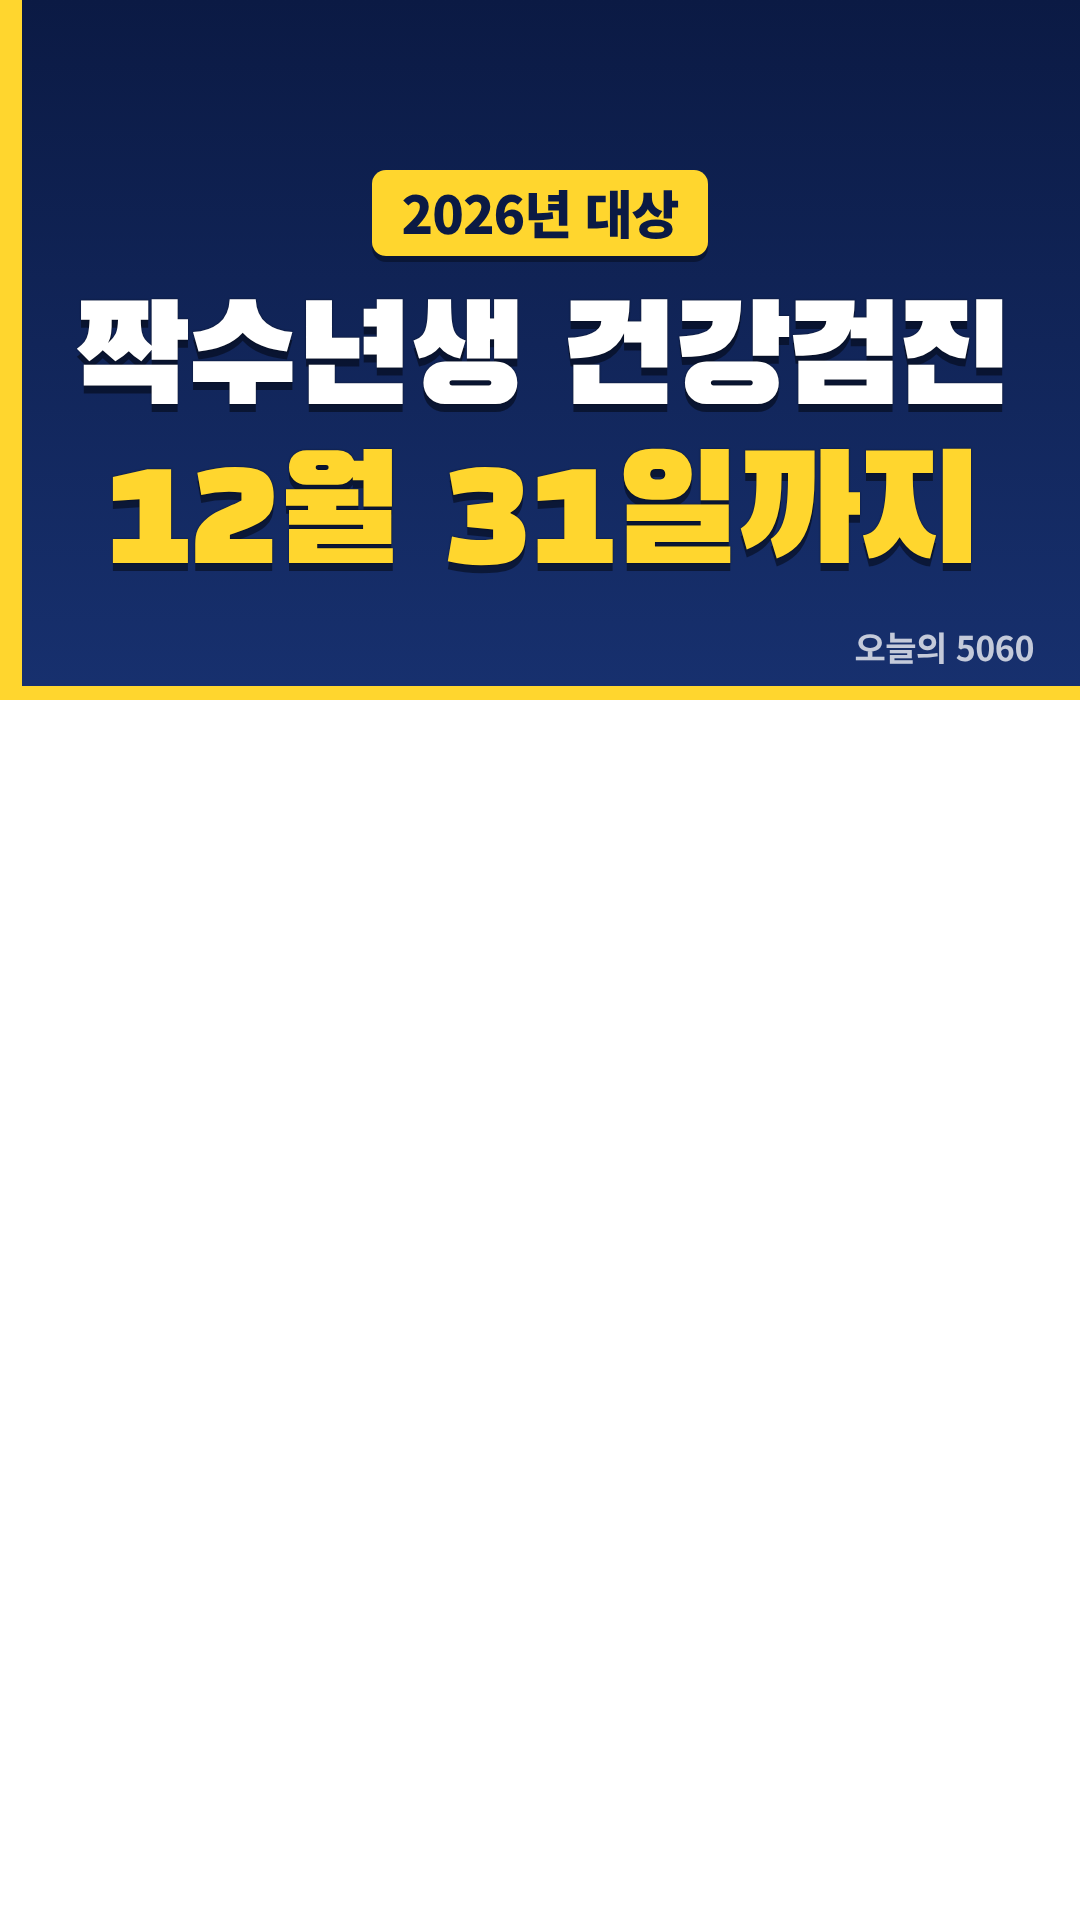
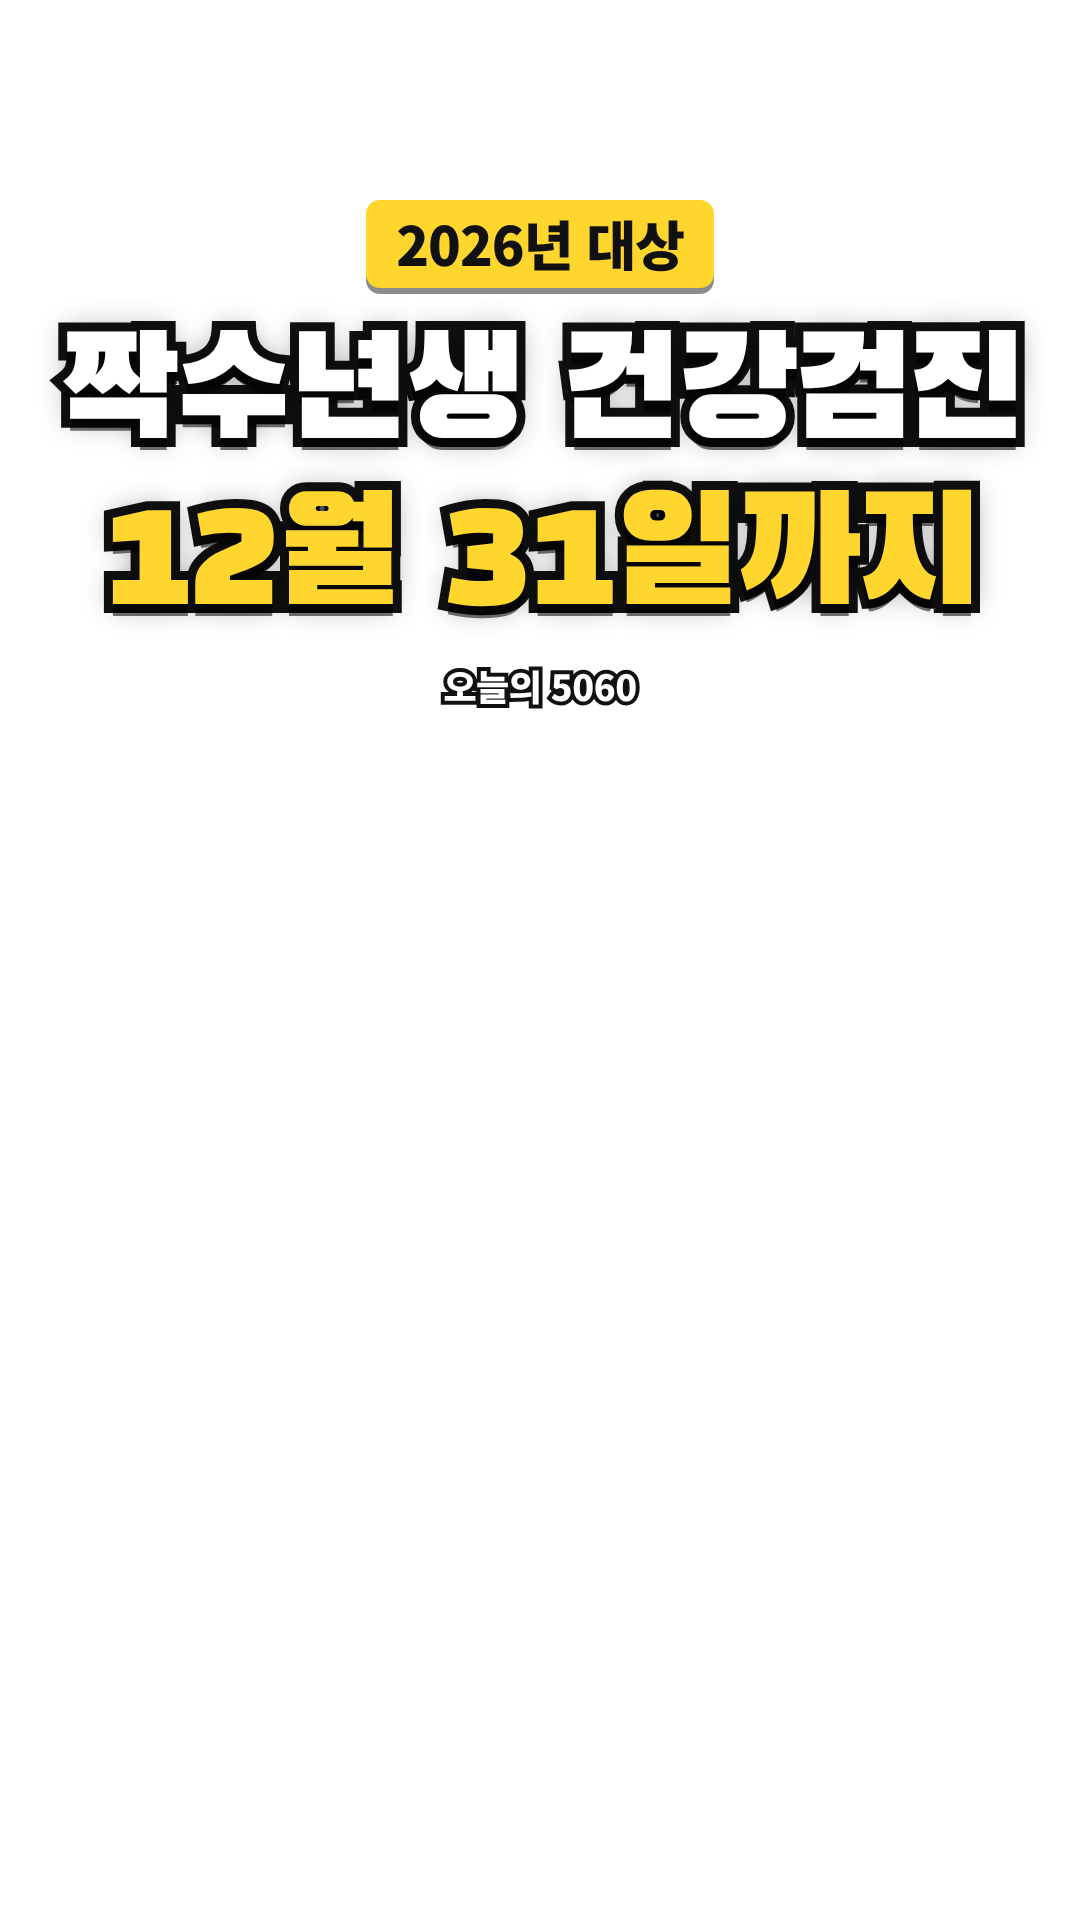
Title card: switch to no-background two-line style
Drop the colored band; text sits directly on the image with a thick
black outline and shadow. Categories now differ by accent color only.

Claude-Session: https://claude.ai/code/session_01Xek6DnfYp9yHnSt88ANoG6

diff --git a/shorts-studio/brand/title-style.html b/shorts-studio/brand/title-style.html
@@ -1,13 +1,12 @@
 <!doctype html><html lang="ko"><head><meta charset="utf-8"><meta name="viewport" content="width=device-width,initial-scale=1"><title>강조 제목 스타일</title><style>@import url('https://fonts.googleapis.com/css2?family=Black+Han+Sans&family=Noto+Sans+KR:wght@700;900&display=swap');
 .tc{position:relative;width:1080px;height:1920px;overflow:hidden;font-family:"Black Han Sans","Noto Sans KR",sans-serif}
 .tc .bg{position:absolute;inset:0}
-.tc .band{position:absolute;left:0;right:0;top:0;height:700px;padding:170px 60px 0;box-sizing:border-box;
-  background:linear-gradient(180deg,var(--band1),var(--band2));border-bottom:14px solid var(--accent);text-align:center}
-.tc .band:before{content:"";position:absolute;left:0;top:0;bottom:0;width:22px;background:var(--accent)}
-.tc .chip{display:inline-block;background:var(--accent);color:var(--chipText);font:900 52px/1 "Noto Sans KR",sans-serif;
-  padding:16px 30px 18px;border-radius:14px;letter-spacing:-1px;box-shadow:0 6px 0 rgba(0,0,0,.35);margin-bottom:34px}
-.tc .l{display:block;white-space:nowrap;line-height:1.08;letter-spacing:-3px;
-  text-shadow:0 8px 0 rgba(0,0,0,.45),0 0 2px rgba(0,0,0,.6)}
+.tc .band{position:absolute;left:0;right:0;top:0;padding:200px 50px 0;box-sizing:border-box;text-align:center}
+.tc .chip{display:inline-block;background:var(--accent);color:#111;font:900 54px/1 "Noto Sans KR",sans-serif;
+  padding:16px 30px 18px;border-radius:14px;letter-spacing:-1px;box-shadow:0 6px 0 rgba(0,0,0,.45);margin-bottom:30px}
+.tc .l{display:block;white-space:nowrap;line-height:1.12;letter-spacing:-3px;
+  -webkit-text-stroke:18px #111;paint-order:stroke fill;text-shadow:0 12px 0 rgba(0,0,0,.55),0 0 30px rgba(0,0,0,.45)}
 .tc .l1{color:#fff}
 .tc .l2{color:var(--accent)}
-.tc .sig{position:absolute;right:46px;bottom:22px;font:700 34px/1 "Noto Sans KR",sans-serif;color:rgba(255,255,255,.75);letter-spacing:-.5px}body{margin:0;background:#0f1115;color:#e9ecf1;font:17px/1.6 "Noto Sans KR",sans-serif}main{max-width:1100px;margin:0 auto;padding:16px}h1{font-size:24px;margin:8px 0}p{color:#9aa3b2}.grid{display:grid;grid-template-columns:repeat(auto-fill,minmax(250px,1fr));gap:20px}figure{margin:0}.scale{width:252px;height:448px;overflow:hidden;border-radius:14px}.scale .tc{transform:scale(.2333);transform-origin:0 0}figcaption{margin-top:8px;color:#9aa3b2;font-size:15px}ul{color:#c9d0db}</style></head><body><main><h1>강조 제목 스타일 — 꽉찬 두 줄</h1><p>위쪽 밴드에 태그 1개, 흰 줄 1개, 강조색 줄 1개. 주제 분야마다 밴드 색이 달라 채널 영상이 한눈에 구분됩니다. 아래 배경은 Vrew AI 이미지가 들어갈 자리입니다.</p><div class="grid"><figure><div class="scale"><div class="tc" style="--band1:#0B1A44;--band2:#17306E;--accent:#FFD62E;--chipText:#0B1A44"><div class="bg" style="background:linear-gradient(180deg,#cfe3f3 0%,#9cc3e0 55%,#e9d9c4 100%)"></div><div class="band"><span class="chip">2026년 대상</span><span class="l l1">짝수년생 건강검진</span><span class="l l2">12월 31일까지</span><span class="sig">오늘의 5060</span></div></div></div><figcaption>시범 회차 (검증 완료 문구)</figcaption></figure><figure><div class="scale"><div class="tc" style="--band1:#06352A;--band2:#0E5541;--accent:#FFC93C;--chipText:#06352A"><div class="bg" style="background:linear-gradient(180deg,#f3e6c4 0%,#d9b46a 60%,#7b5a2a 100%)"></div><div class="band"><span class="chip">디자인 예시</span><span class="l l1">은퇴 후 건보료</span><span class="l l2">이것부터 확인</span><span class="sig">오늘의 5060</span></div></div></div><figcaption>돈 · 초록+금색</figcaption></figure><figure><div class="scale"><div class="tc" style="--band1:#4A0B12;--band2:#7A1420;--accent:#FFE14D;--chipText:#4A0B12"><div class="bg" style="background:linear-gradient(180deg,#e9e4dc 0%,#bfb2a2 60%,#5e5246 100%)"></div><div class="band"><span class="chip">디자인 예시</span><span class="l l1">이런 문자 오면</span><span class="l l2">절대 누르지 마세요</span><span class="sig">오늘의 5060</span></div></div></div><figcaption>생활·사기예방 · 버건디+노랑</figcaption></figure><figure><div class="scale"><div class="tc" style="--band1:#2B1048;--band2:#4A1F7A;--accent:#FFD62E;--chipText:#2B1048"><div class="bg" style="background:linear-gradient(180deg,#ffb35c 0%,#e2603a 50%,#5a2a4a 100%)"></div><div class="band"><span class="chip">디자인 예시</span><span class="l l1">가을 걷기 좋은 길</span><span class="l l2">수도권 3곳</span><span class="sig">오늘의 5060</span></div></div></div><figcaption>여가 · 보라+노랑</figcaption></figure></div><h1 style="margin-top:28px">규칙</h1><ul><li>1줄: 누구 얘기인지 (흰색) · 2줄: 핵심 숫자나 행동 (강조색)</li><li>한 줄 9자 안팎 — 길면 글자가 자동으로 작아지지만 96px 아래로는 안 줄어듭니다</li><li>태그는 6자 이내, 시기·대상 (예: 2026년 대상, 11월부터)</li><li>제목에 쓰는 사실은 팩트체크 통과 문구만</li></ul></main><script>document.fonts.ready.then(function(){document.querySelectorAll(".tc .l").forEach(function(el){var s=150;el.style.fontSize=s+"px";while(el.scrollWidth>960&&s>96){s-=4;el.style.fontSize=s+"px";}});});</script></body></html>
+.tc .sig{display:inline-block;margin-top:22px;font:900 36px/1 "Noto Sans KR",sans-serif;color:#fff;letter-spacing:-.5px;
+  -webkit-text-stroke:8px #111;paint-order:stroke fill}body{margin:0;background:#0f1115;color:#e9ecf1;font:17px/1.6 "Noto Sans KR",sans-serif}main{max-width:1100px;margin:0 auto;padding:16px}h1{font-size:24px;margin:8px 0}p{color:#9aa3b2}.grid{display:grid;grid-template-columns:repeat(auto-fill,minmax(250px,1fr));gap:20px}figure{margin:0}.scale{width:252px;height:448px;overflow:hidden;border-radius:14px}.scale .tc{transform:scale(.2333);transform-origin:0 0}figcaption{margin-top:8px;color:#9aa3b2;font-size:15px}ul{color:#c9d0db}</style></head><body><main><h1>강조 제목 스타일 — 배경 없는 두 줄</h1><p>배경 띠 없이 태그 1개, 흰 줄 1개, 강조색 줄 1개를 굵은 검은 테두리로 이미지 위에 바로 얹습니다. 분야는 강조색으로 구분합니다. 뒤 배경은 Vrew AI 이미지가 들어갈 자리입니다.</p><div class="grid"><figure><div class="scale"><div class="tc" style="--accent:#FFD62E"><div class="bg" style="background:linear-gradient(180deg,#cfe3f3 0%,#9cc3e0 55%,#e9d9c4 100%)"></div><div class="band"><span class="chip">2026년 대상</span><span class="l l1">짝수년생 건강검진</span><span class="l l2">12월 31일까지</span><span class="sig">오늘의 5060</span></div></div></div><figcaption>건강 · 노랑 강조 — 시범 회차 (검증 완료 문구)</figcaption></figure><figure><div class="scale"><div class="tc" style="--accent:#7CF08A"><div class="bg" style="background:linear-gradient(180deg,#f3e6c4 0%,#d9b46a 60%,#7b5a2a 100%)"></div><div class="band"><span class="chip">디자인 예시</span><span class="l l1">은퇴 후 건보료</span><span class="l l2">이것부터 확인</span><span class="sig">오늘의 5060</span></div></div></div><figcaption>돈 · 연두 강조</figcaption></figure><figure><div class="scale"><div class="tc" style="--accent:#FF8A3D"><div class="bg" style="background:linear-gradient(180deg,#e9e4dc 0%,#bfb2a2 60%,#5e5246 100%)"></div><div class="band"><span class="chip">디자인 예시</span><span class="l l1">이런 문자 오면</span><span class="l l2">절대 누르지 마세요</span><span class="sig">오늘의 5060</span></div></div></div><figcaption>생활·사기예방 · 주황 강조</figcaption></figure><figure><div class="scale"><div class="tc" style="--accent:#7FD8FF"><div class="bg" style="background:linear-gradient(180deg,#ffb35c 0%,#e2603a 50%,#5a2a4a 100%)"></div><div class="band"><span class="chip">디자인 예시</span><span class="l l1">가을 걷기 좋은 길</span><span class="l l2">수도권 3곳</span><span class="sig">오늘의 5060</span></div></div></div><figcaption>여가 · 하늘 강조</figcaption></figure></div><h1 style="margin-top:28px">규칙</h1><ul><li>1줄: 누구 얘기인지 (흰색) · 2줄: 핵심 숫자나 행동 (강조색)</li><li>한 줄 9자 안팎 — 길면 글자가 자동으로 작아지지만 96px 아래로는 안 줄어듭니다</li><li>태그는 6자 이내, 시기·대상 (예: 2026년 대상, 11월부터)</li><li>제목에 쓰는 사실은 팩트체크 통과 문구만</li></ul></main><script>document.fonts.ready.then(function(){document.querySelectorAll(".tc .l").forEach(function(el){var s=150;el.style.fontSize=s+"px";while(el.scrollWidth>980&&s>96){s-=4;el.style.fontSize=s+"px";}});});</script></body></html>

diff --git a/shorts-studio/tools/make_title_card.js b/shorts-studio/tools/make_title_card.js
@@ -1,5 +1,5 @@
 #!/usr/bin/env node
-// 채널 강조 제목 카드 렌더러 ("꽉찬 두 줄" 스타일)
+// 채널 강조 제목 카드 렌더러 ("배경 없는 두 줄" 스타일)
 //
 //   node shorts-studio/tools/make_title_card.js <회차폴더>
 //     → vrew.md의 vrew-scenes 1번 장면(큰글자 2줄, 태그, 테마)으로
@@ -14,11 +14,12 @@ var path = require('path');
 
 var CHANNEL = '오늘의 5060'; // 채널 이름이 정해지면 여기만 바꾸세요
 
+// 배경 띠 없이 글자만 얹는 스타일: 분야는 강조색(태그·2줄)으로만 구분
 var THEMES = {
-  건강: { band1: '#0B1A44', band2: '#17306E', accent: '#FFD62E', chipText: '#0B1A44' },
-  돈: { band1: '#06352A', band2: '#0E5541', accent: '#FFC93C', chipText: '#06352A' },
-  생활: { band1: '#4A0B12', band2: '#7A1420', accent: '#FFE14D', chipText: '#4A0B12' },
-  여가: { band1: '#2B1048', band2: '#4A1F7A', accent: '#FFD62E', chipText: '#2B1048' },
+  건강: { accent: '#FFD62E' },
+  돈: { accent: '#7CF08A' },
+  생활: { accent: '#FF8A3D' },
+  여가: { accent: '#7FD8FF' },
 };
 
 // 배경 사진 자리 표시 (실제 영상에서는 Vrew AI 이미지가 들어감)
@@ -39,26 +40,25 @@ var CSS = [
   "@import url('https://fonts.googleapis.com/css2?family=Black+Han+Sans&family=Noto+Sans+KR:wght@700;900&display=swap');",
   '.tc{position:relative;width:1080px;height:1920px;overflow:hidden;font-family:"Black Han Sans","Noto Sans KR",sans-serif}',
   '.tc .bg{position:absolute;inset:0}',
-  '.tc .band{position:absolute;left:0;right:0;top:0;height:700px;padding:170px 60px 0;box-sizing:border-box;',
-  '  background:linear-gradient(180deg,var(--band1),var(--band2));border-bottom:14px solid var(--accent);text-align:center}',
-  '.tc .band:before{content:"";position:absolute;left:0;top:0;bottom:0;width:22px;background:var(--accent)}',
-  '.tc .chip{display:inline-block;background:var(--accent);color:var(--chipText);font:900 52px/1 "Noto Sans KR",sans-serif;',
-  '  padding:16px 30px 18px;border-radius:14px;letter-spacing:-1px;box-shadow:0 6px 0 rgba(0,0,0,.35);margin-bottom:34px}',
-  '.tc .l{display:block;white-space:nowrap;line-height:1.08;letter-spacing:-3px;',
-  '  text-shadow:0 8px 0 rgba(0,0,0,.45),0 0 2px rgba(0,0,0,.6)}',
+  '.tc .band{position:absolute;left:0;right:0;top:0;padding:200px 50px 0;box-sizing:border-box;text-align:center}',
+  '.tc .chip{display:inline-block;background:var(--accent);color:#111;font:900 54px/1 "Noto Sans KR",sans-serif;',
+  '  padding:16px 30px 18px;border-radius:14px;letter-spacing:-1px;box-shadow:0 6px 0 rgba(0,0,0,.45);margin-bottom:30px}',
+  '.tc .l{display:block;white-space:nowrap;line-height:1.12;letter-spacing:-3px;',
+  '  -webkit-text-stroke:18px #111;paint-order:stroke fill;text-shadow:0 12px 0 rgba(0,0,0,.55),0 0 30px rgba(0,0,0,.45)}',
   '.tc .l1{color:#fff}',
   '.tc .l2{color:var(--accent)}',
-  '.tc .sig{position:absolute;right:46px;bottom:22px;font:700 34px/1 "Noto Sans KR",sans-serif;color:rgba(255,255,255,.75);letter-spacing:-.5px}',
+  '.tc .sig{display:inline-block;margin-top:22px;font:900 36px/1 "Noto Sans KR",sans-serif;color:#fff;letter-spacing:-.5px;',
+  '  -webkit-text-stroke:8px #111;paint-order:stroke fill}',
 ].join('\n');
 
-// 한 줄이 밴드 폭(960px)에 맞도록 글자 크기를 맞춘다 (최대 150px, 최소 96px)
+// 한 줄이 화면 폭(980px)에 맞도록 글자 크기를 맞춘다 (최대 150px, 최소 96px)
 var FIT_JS =
   'document.querySelectorAll(".tc .l").forEach(function(el){var s=150;el.style.fontSize=s+"px";' +
-  'while(el.scrollWidth>960&&s>96){s-=4;el.style.fontSize=s+"px";}});';
+  'while(el.scrollWidth>980&&s>96){s-=4;el.style.fontSize=s+"px";}});';
 
 function cardHtml(opt) {
   var t = THEMES[opt.theme] || THEMES['건강'];
-  var vars = '--band1:' + t.band1 + ';--band2:' + t.band2 + ';--accent:' + t.accent + ';--chipText:' + t.chipText;
+  var vars = '--accent:' + t.accent;
   var bg = opt.preview ? '<div class="bg" style="background:' + (PREVIEW_BG[opt.theme] || PREVIEW_BG['건강']) + '"></div>' : '';
   return (
     '<div class="tc" style="' + vars + '">' + bg +
@@ -100,10 +100,10 @@ async function render(opt, file, preview) {
 }
 
 var SAMPLES = [
-  { theme: '건강', tag: '2026년 대상', line1: '짝수년생 건강검진', line2: '12월 31일까지', note: '시범 회차 (검증 완료 문구)' },
-  { theme: '돈', tag: '디자인 예시', line1: '은퇴 후 건보료', line2: '이것부터 확인', note: '돈 · 초록+금색' },
-  { theme: '생활', tag: '디자인 예시', line1: '이런 문자 오면', line2: '절대 누르지 마세요', note: '생활·사기예방 · 버건디+노랑' },
-  { theme: '여가', tag: '디자인 예시', line1: '가을 걷기 좋은 길', line2: '수도권 3곳', note: '여가 · 보라+노랑' },
+  { theme: '건강', tag: '2026년 대상', line1: '짝수년생 건강검진', line2: '12월 31일까지', note: '건강 · 노랑 강조 — 시범 회차 (검증 완료 문구)' },
+  { theme: '돈', tag: '디자인 예시', line1: '은퇴 후 건보료', line2: '이것부터 확인', note: '돈 · 연두 강조' },
+  { theme: '생활', tag: '디자인 예시', line1: '이런 문자 오면', line2: '절대 누르지 마세요', note: '생활·사기예방 · 주황 강조' },
+  { theme: '여가', tag: '디자인 예시', line1: '가을 걷기 좋은 길', line2: '수도권 3곳', note: '여가 · 하늘 강조' },
 ];
 
 function showcase(out) {
@@ -117,8 +117,8 @@ function showcase(out) {
     'h1{font-size:24px;margin:8px 0}p{color:#9aa3b2}.grid{display:grid;grid-template-columns:repeat(auto-fill,minmax(250px,1fr));gap:20px}' +
     'figure{margin:0}.scale{width:252px;height:448px;overflow:hidden;border-radius:14px}.scale .tc{transform:scale(.2333);transform-origin:0 0}' +
     'figcaption{margin-top:8px;color:#9aa3b2;font-size:15px}ul{color:#c9d0db}</style></head><body><main>' +
-    '<h1>강조 제목 스타일 — 꽉찬 두 줄</h1>' +
-    '<p>위쪽 밴드에 태그 1개, 흰 줄 1개, 강조색 줄 1개. 주제 분야마다 밴드 색이 달라 채널 영상이 한눈에 구분됩니다. 아래 배경은 Vrew AI 이미지가 들어갈 자리입니다.</p>' +
+    '<h1>강조 제목 스타일 — 배경 없는 두 줄</h1>' +
+    '<p>배경 띠 없이 태그 1개, 흰 줄 1개, 강조색 줄 1개를 굵은 검은 테두리로 이미지 위에 바로 얹습니다. 분야는 강조색으로 구분합니다. 뒤 배경은 Vrew AI 이미지가 들어갈 자리입니다.</p>' +
     '<div class="grid">' + cards + '</div>' +
     '<h1 style="margin-top:28px">규칙</h1><ul>' +
     '<li>1줄: 누구 얘기인지 (흰색) · 2줄: 핵심 숫자나 행동 (강조색)</li>' +

diff --git a/shorts-studio/brand/title-style.md b/shorts-studio/brand/title-style.md
@@ -1,29 +1,31 @@
-# 채널 강조 제목 스타일 — "꽉찬 두 줄"
+# 채널 강조 제목 스타일 — "배경 없는 두 줄"
 
 견본: [title-style.html](title-style.html) · 렌더러: `shorts-studio/tools/make_title_card.js`
 
-## 구성 (1080×1920, 위쪽 700px 밴드)
+배경 띠 없이 글자만 이미지 위에 얹는 스타일입니다. 어떤 사진 위에서도 읽히도록 굵은 검은 테두리와 그림자로 강조합니다.
+
+## 구성 (1080×1920, 화면 위쪽 200px부터)
 | 요소 | 규칙 |
 |---|---|
-| 밴드 | 분야색 세로 그라데이션 + 아래 14px 강조색 줄 + 왼쪽 22px 강조색 세로 띠 (채널 고유 표시) |
-| 태그 | 강조색 바탕 + 밴드색 글자, 6자 이내, 시기·대상 (예: `2026년 대상`, `11월부터`) |
-| 1줄 | 흰색, Black Han Sans, 누구 얘기인지 (예: `짝수년생 건강검진`) |
-| 2줄 | 강조색, 같은 글꼴, 핵심 숫자나 행동 (예: `12월 31일까지`) |
-| 크기 | 150px에서 시작해 밴드 폭(960px)에 맞게 자동 축소, 최소 96px → 한 줄 9자 안팎 권장 |
-| 서명 | 밴드 오른쪽 아래 채널명 (`make_title_card.js`의 `CHANNEL`) |
+| 태그 | 강조색 바탕 + 검은 글자, 6자 이내, 시기·대상 (예: `2026년 대상`, `11월부터`) |
+| 1줄 | 흰색, Black Han Sans, 18px 검은 테두리 + 아래 그림자. 누구 얘기인지 (예: `짝수년생 건강검진`) |
+| 2줄 | 강조색, 같은 글꼴·테두리. 핵심 숫자나 행동 (예: `12월 31일까지`) |
+| 크기 | 150px에서 시작해 화면 폭(980px)에 맞게 자동 축소, 최소 96px → 한 줄 9자 안팎 권장 |
+| 서명 | 2줄 아래 작은 흰 글자 채널명 (`make_title_card.js`의 `CHANNEL`) |
 
-## 분야별 색
-| 테마 | 밴드 | 강조색 |
-|---|---|---|
-| 건강 | 남색 `#0B1A44 → #17306E` | 노랑 `#FFD62E` |
-| 돈 | 짙은 초록 `#06352A → #0E5541` | 금색 `#FFC93C` |
-| 생활 (사기예방 등) | 버건디 `#4A0B12 → #7A1420` | 밝은 노랑 `#FFE14D` |
-| 여가 | 보라 `#2B1048 → #4A1F7A` | 노랑 `#FFD62E` |
+## 분야별 강조색 (태그·2줄)
+| 테마 | 강조색 |
+|---|---|
+| 건강 | 노랑 `#FFD62E` |
+| 돈 | 연두 `#7CF08A` |
+| 생활 (사기예방 등) | 주황 `#FF8A3D` |
+| 여가 | 하늘 `#7FD8FF` |
 
 ## 쓰는 법
 1. `vrew.md`의 `vrew-scenes` 1번 장면에 `큰글자`(줄바꿈으로 2줄), `태그`, `테마`를 넣는다.
 2. `node shorts-studio/tools/make_title_card.js <회차폴더>` → `vrew-pack/title-overlay.png`(투명), `title-preview.png`
-3. Vrew 1번 장면에 `title-overlay.png`를 화면 전체 크기로 맨 위에 얹는다. 밴드 아래로 AI 이미지가 보인다.
+3. Vrew 1번 장면에 `title-overlay.png`를 화면 전체 크기로 맨 위에 얹는다.
+4. 1번 장면 AI 이미지는 위쪽 1/3이 너무 복잡하지 않은 것(하늘, 벽, 흐린 배경)을 고르면 글자가 더 잘 보인다.
 
 ## 지킬 것
 - 제목 카드에 쓰는 사실은 팩트체크를 통과한 문구만 쓴다.
